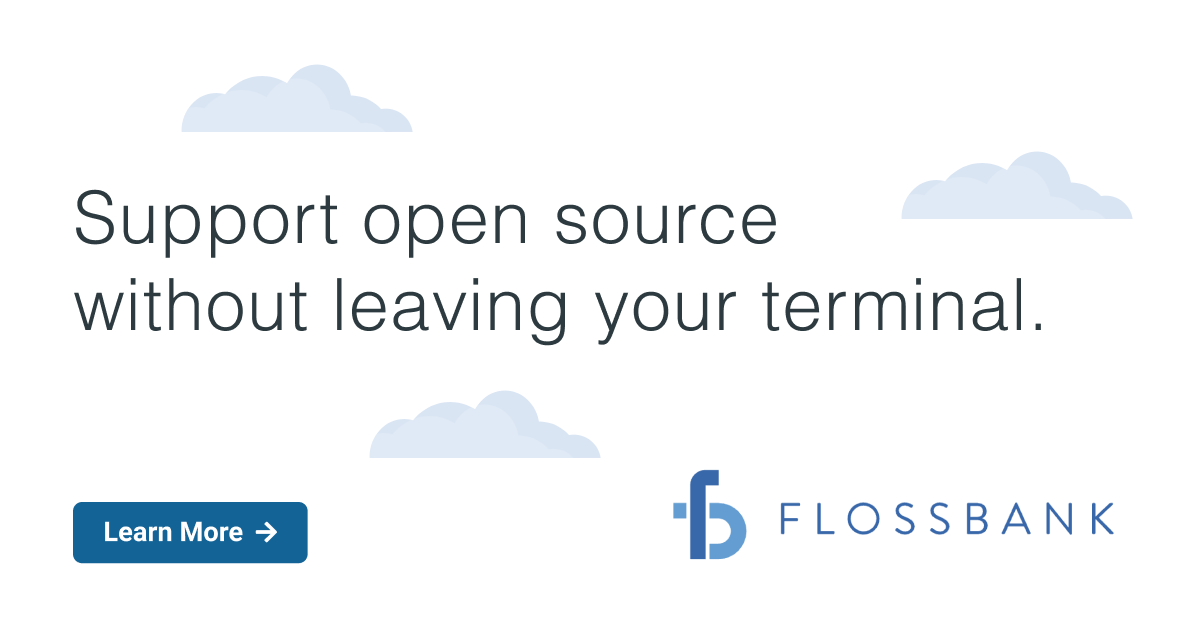
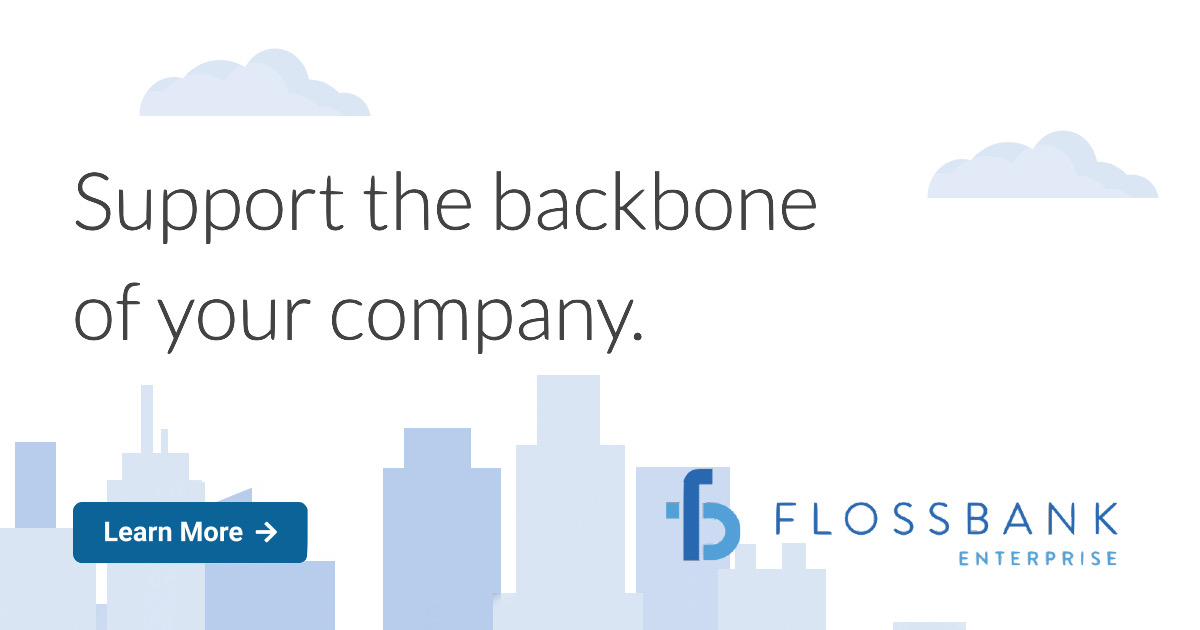
updated og image and descriptions

diff --git a/components/common/head.js b/components/common/head.js
@@ -2,9 +2,9 @@ import Head from 'next/head'
 
 // only put analytics on the page if we are in production and not a Next preview
 const GOAT_COUNTER_ENABLE = !process.env.NEXT_PUBLIC_PREVIEW && process.env.GOAT_COUNTER_ENABLE
-const defaultDescription = 'Flossbank provides a free and frictionless way to support Open Source maintainers across the entire dependency tree of your installed packages.'
-const defaultOGURL = 'https://flossbank.com'
-const defaultOGImage = 'https://flossbank.com/images/ogImage.png'
+const defaultDescription = 'Flossbank enables companies to support the backbone of their technological systems through a simple monthly contribution.'
+const defaultOGURL = 'https://enterprise.flossbank.com'
+const defaultOGImage = 'https://enterprise.flossbank.com/images/ogImage.png'
 
 const FBHead = ({ title, url, ogImage, description }) => (
   <Head>
